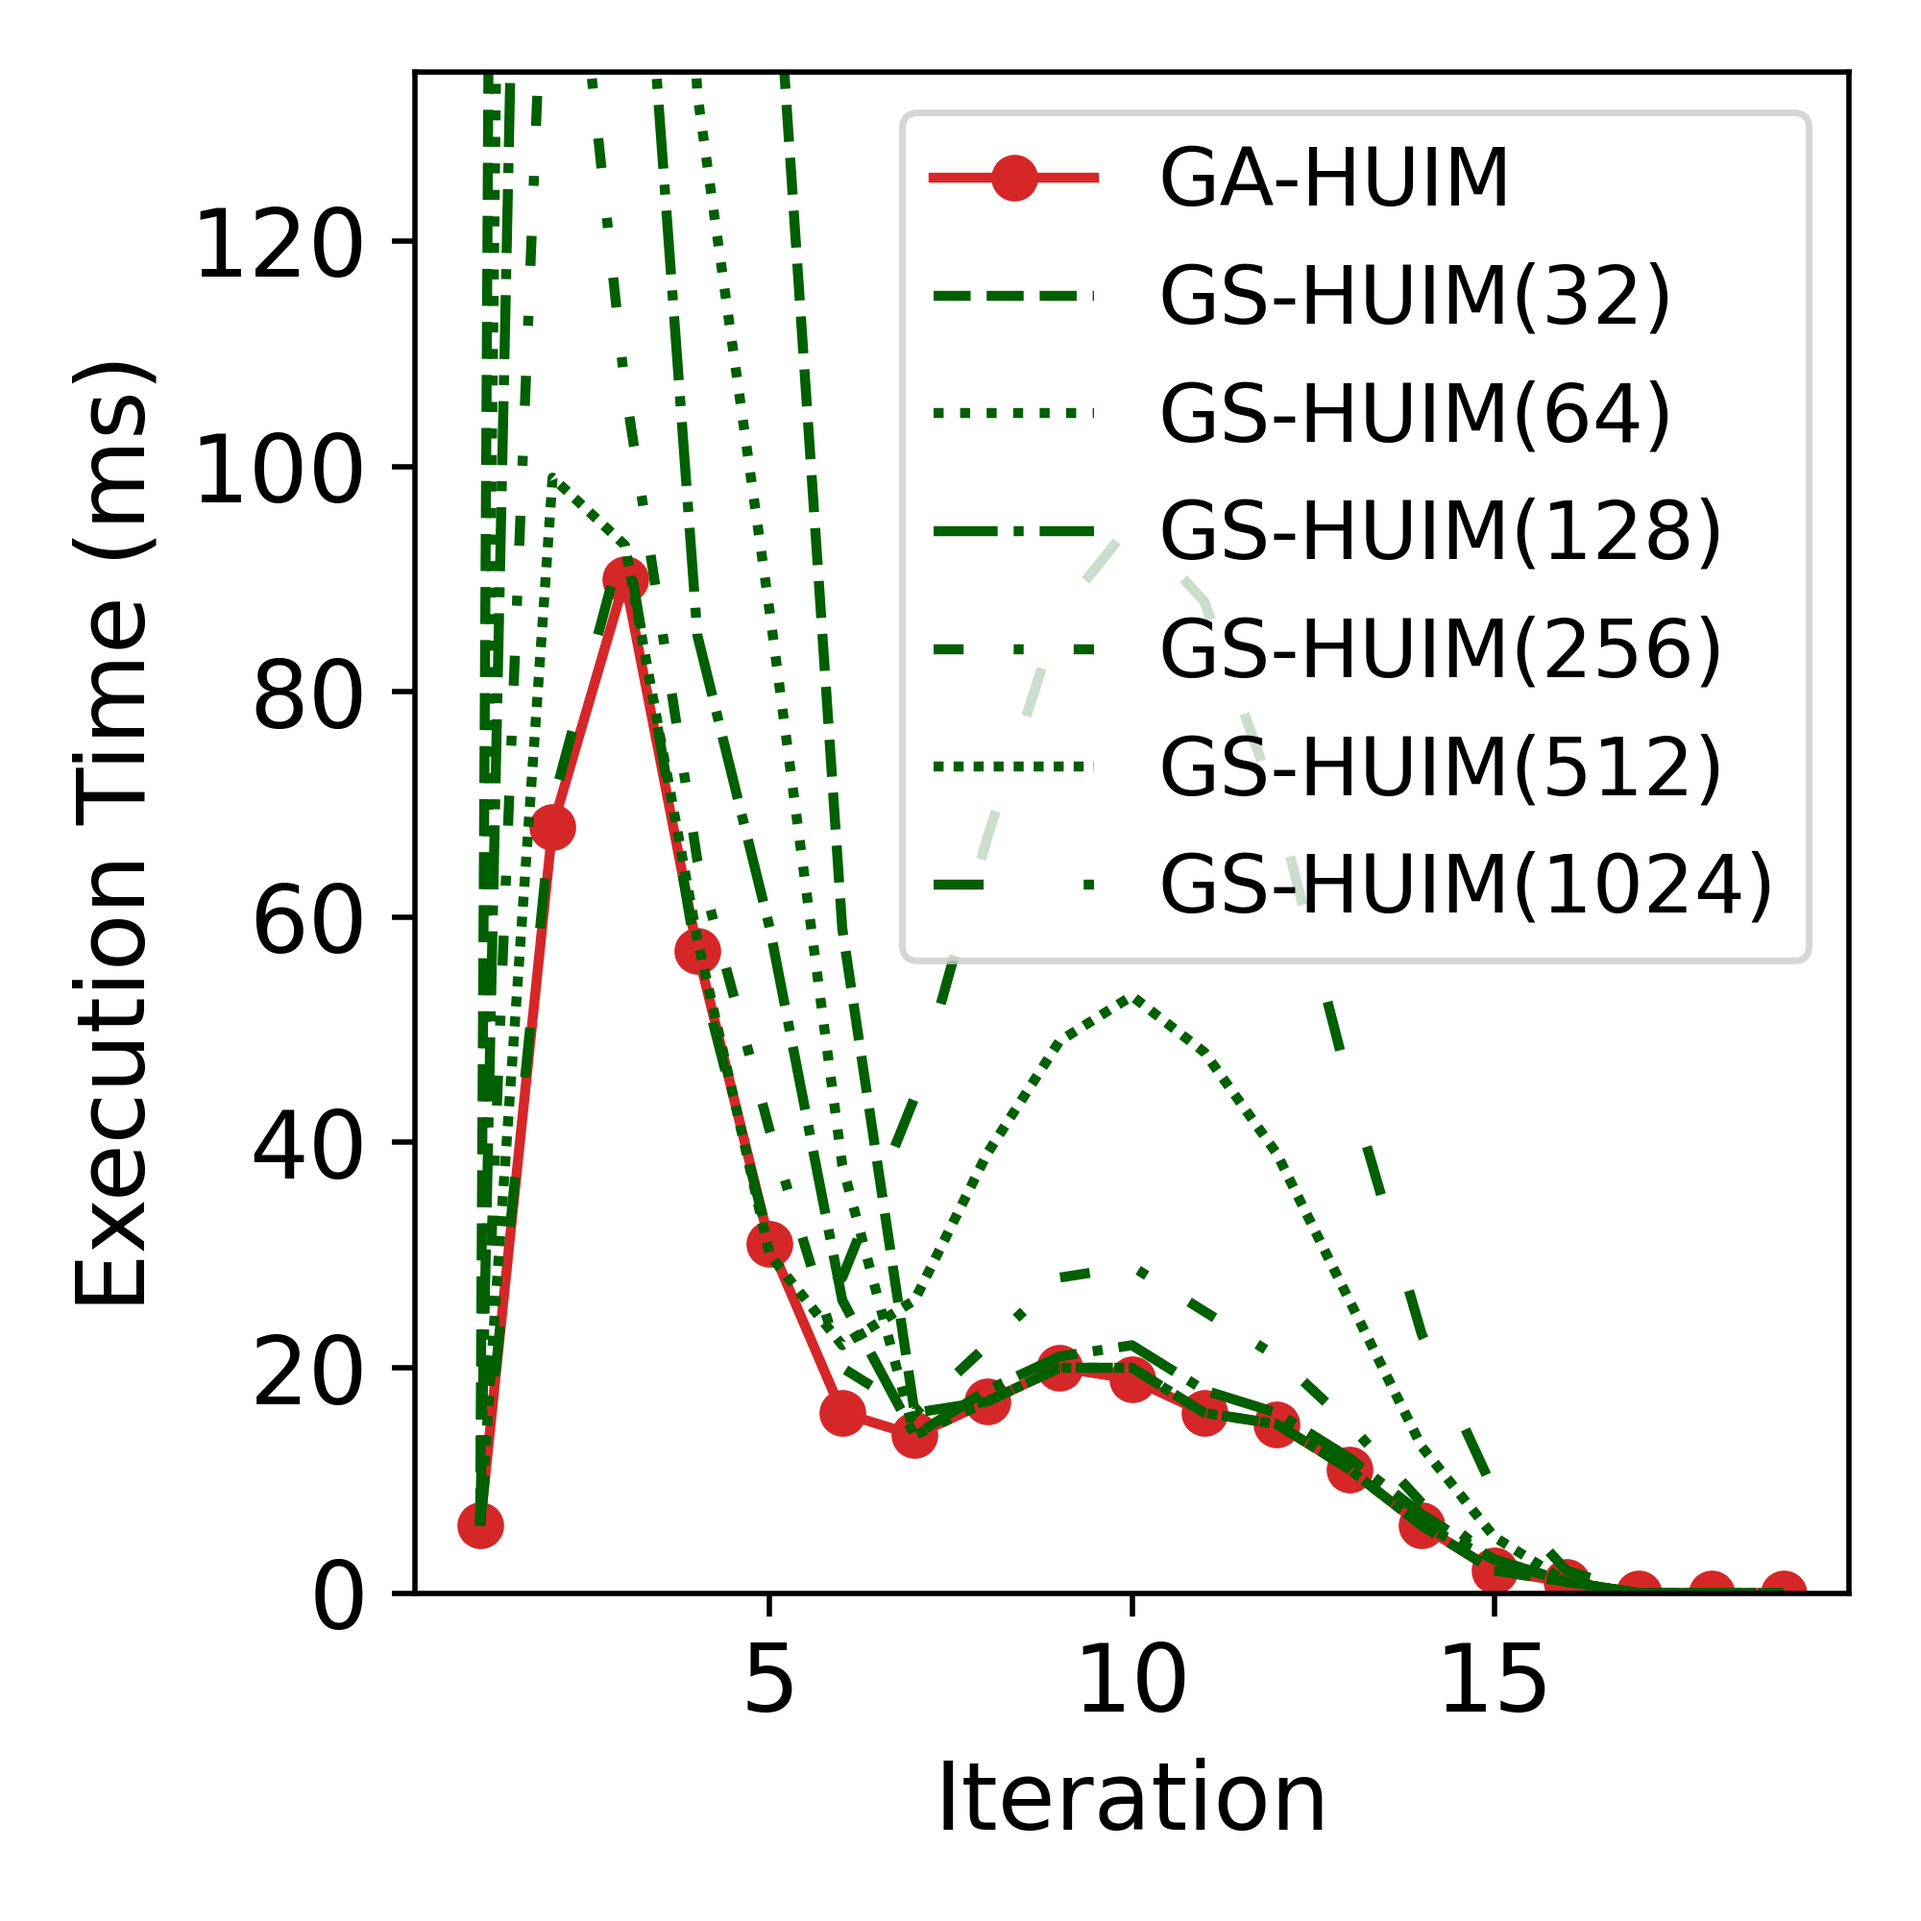
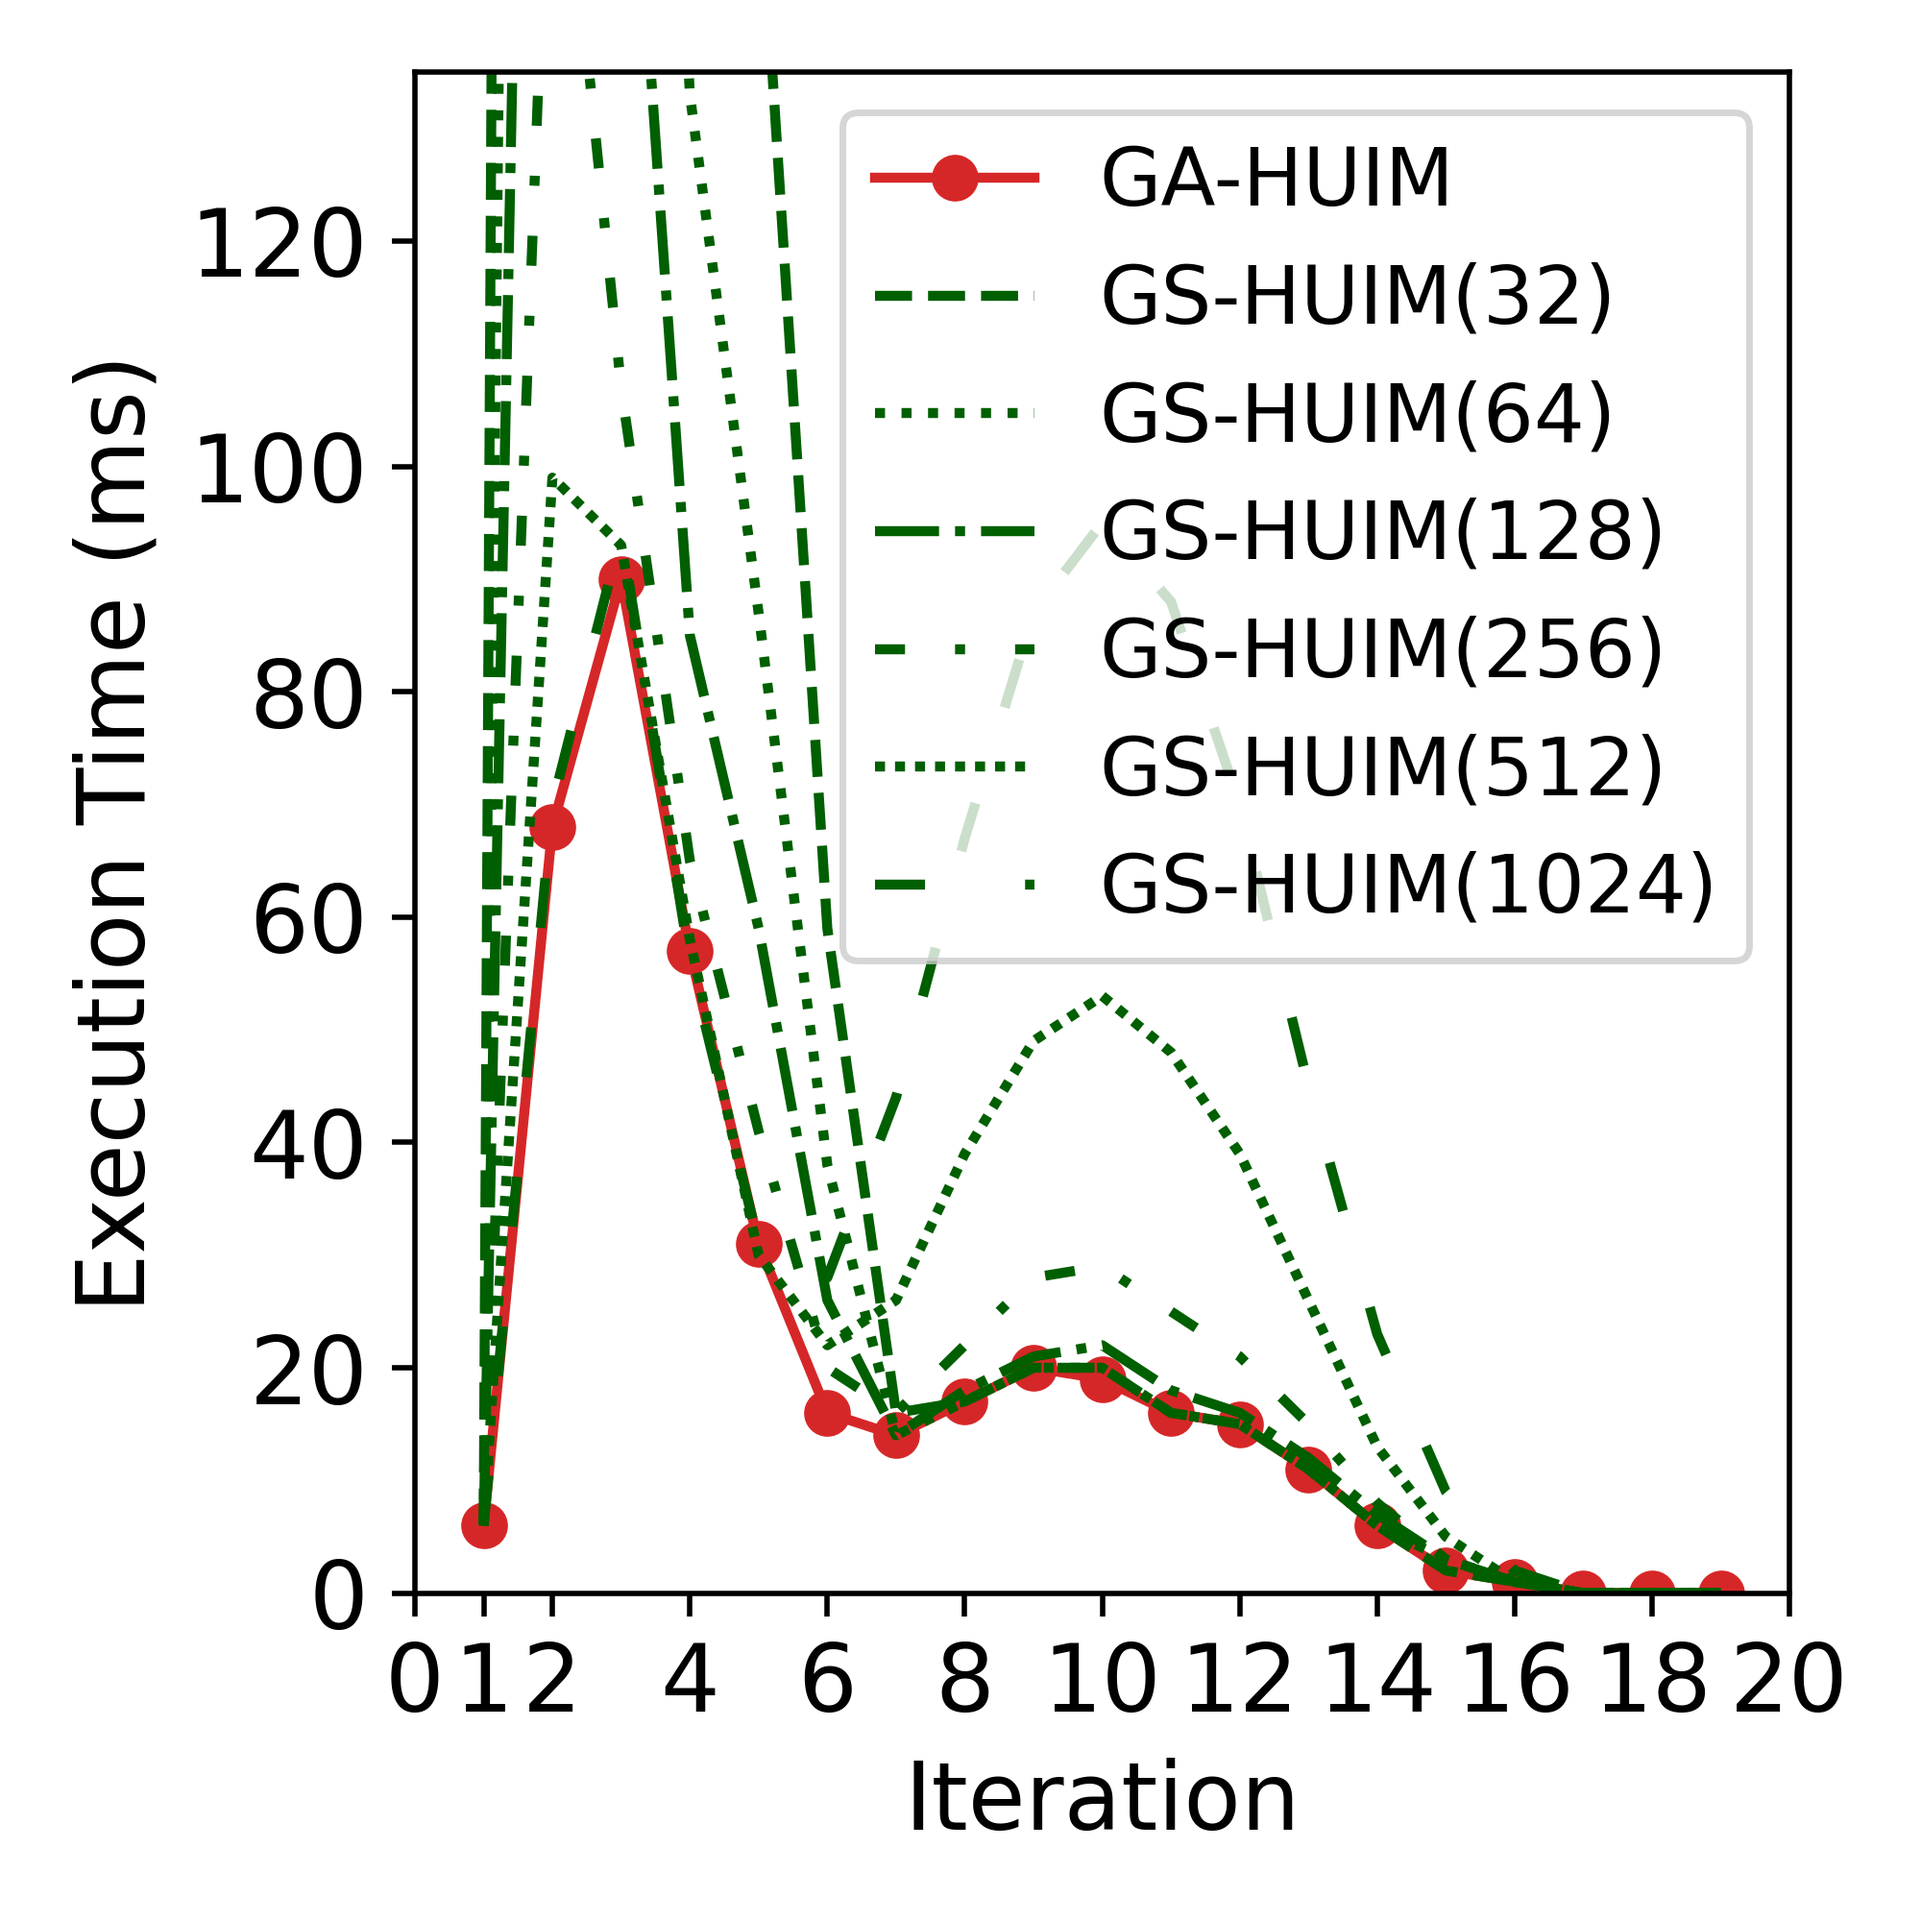
something

diff --git a/experiments/depth.py b/experiments/depth.py
@@ -274,10 +274,36 @@ def plot_for_configs(
             )
         )
 
+    # plt.ylim(0, height_cutoff)
+    # plt.xlabel("Iteration", fontsize=14)
+    # plt.xticks(fontsize=14)
+    # plt.yticks(fontsize=14)
+
+    # plt.xlim(1, max(iterations))  # Start from 1, not 0
+    # plt.xticks([1])  # Force tick at 1
+    # plt.set_xlim(0.8, max(iterations))  # start slightly before 1
+    # plt.gca().xaxis.set_major_locator(plt.MaxNLocator(integer=True))  # Let matplotlib pick the rest
+
+
+    ax = plt.gca()
+    ax.set_xlim(0.8, max(iterations))
+    ax.set_ylim(0, height_cutoff)
+
+    # Ensure integer ticks and include tick 1
+    ticks = ax.get_xticks()
+    if 1 not in ticks:
+        ax.set_xticks([1] + list(ticks))
+    ax.xaxis.set_major_locator(plt.MaxNLocator(integer=True))
+
+    # Labels
     plt.ylim(0, height_cutoff)
+    plt.xticks([1] + list(ax.get_xticks()), fontsize=14)
     plt.xlabel("Iteration", fontsize=14)
     plt.xticks(fontsize=14)
     plt.yticks(fontsize=14)
+
+
+
 
     file_base = Path(input_file).stem
     file_name = f"iteration_times_{file_base}_minutil_{minutil}.png"
